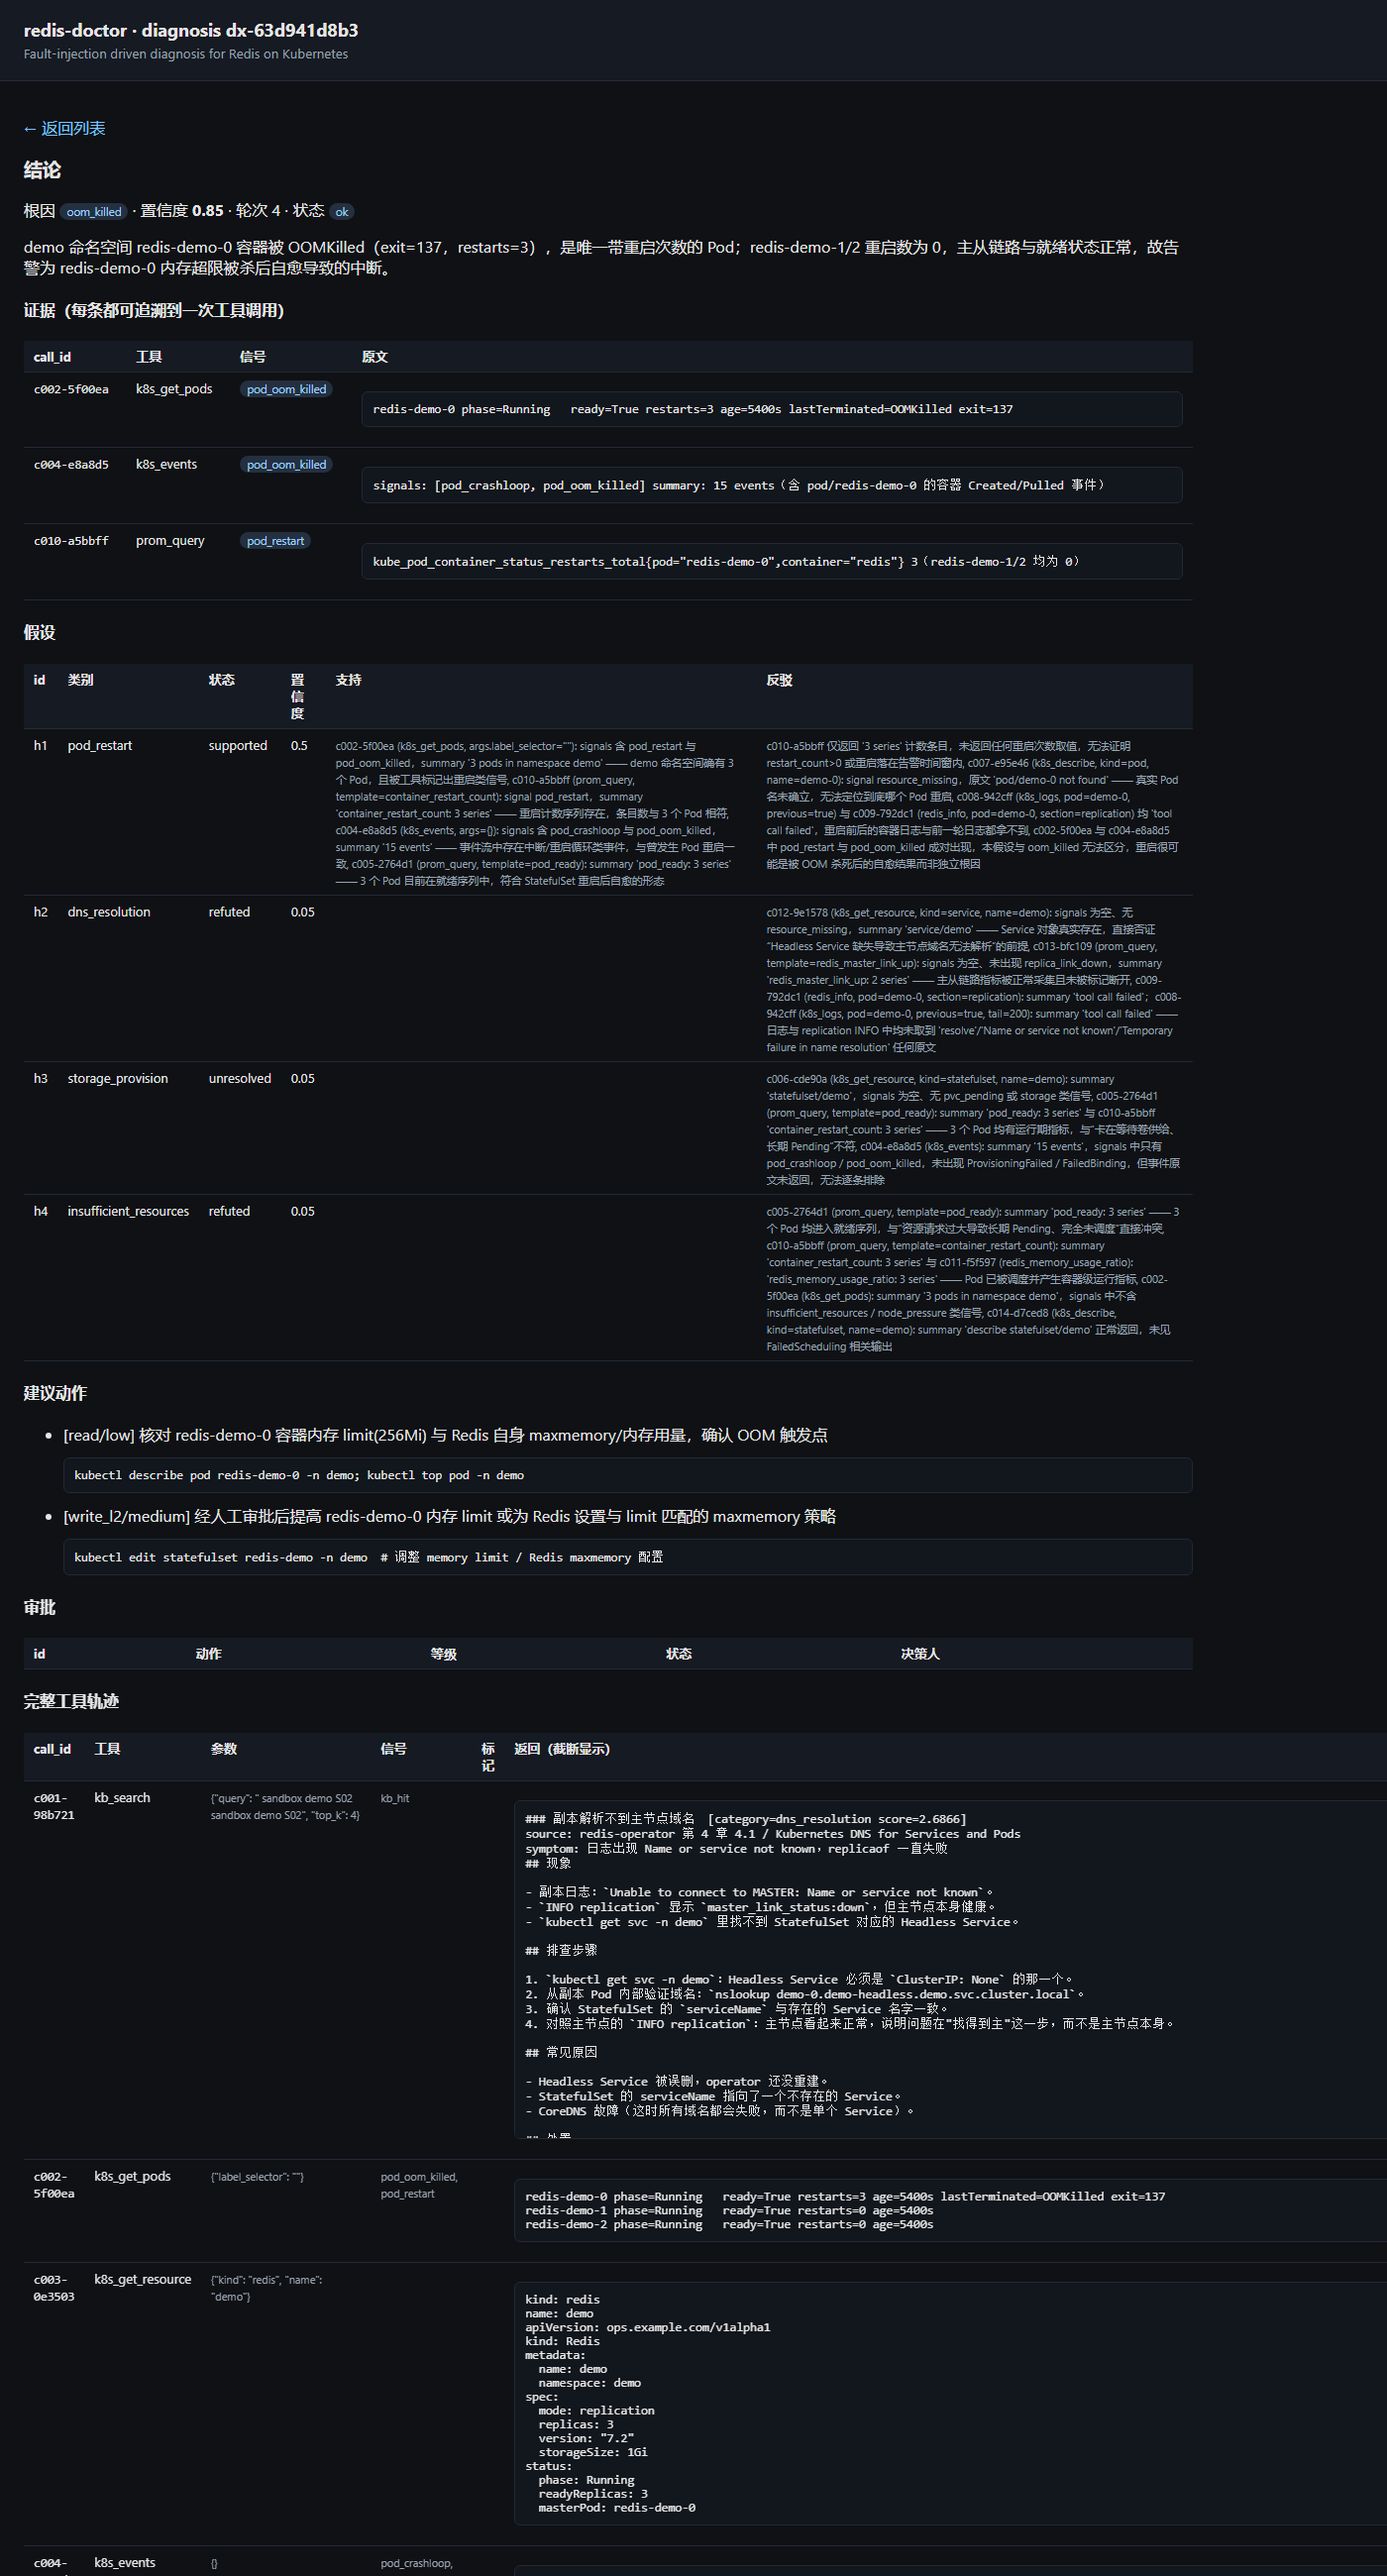
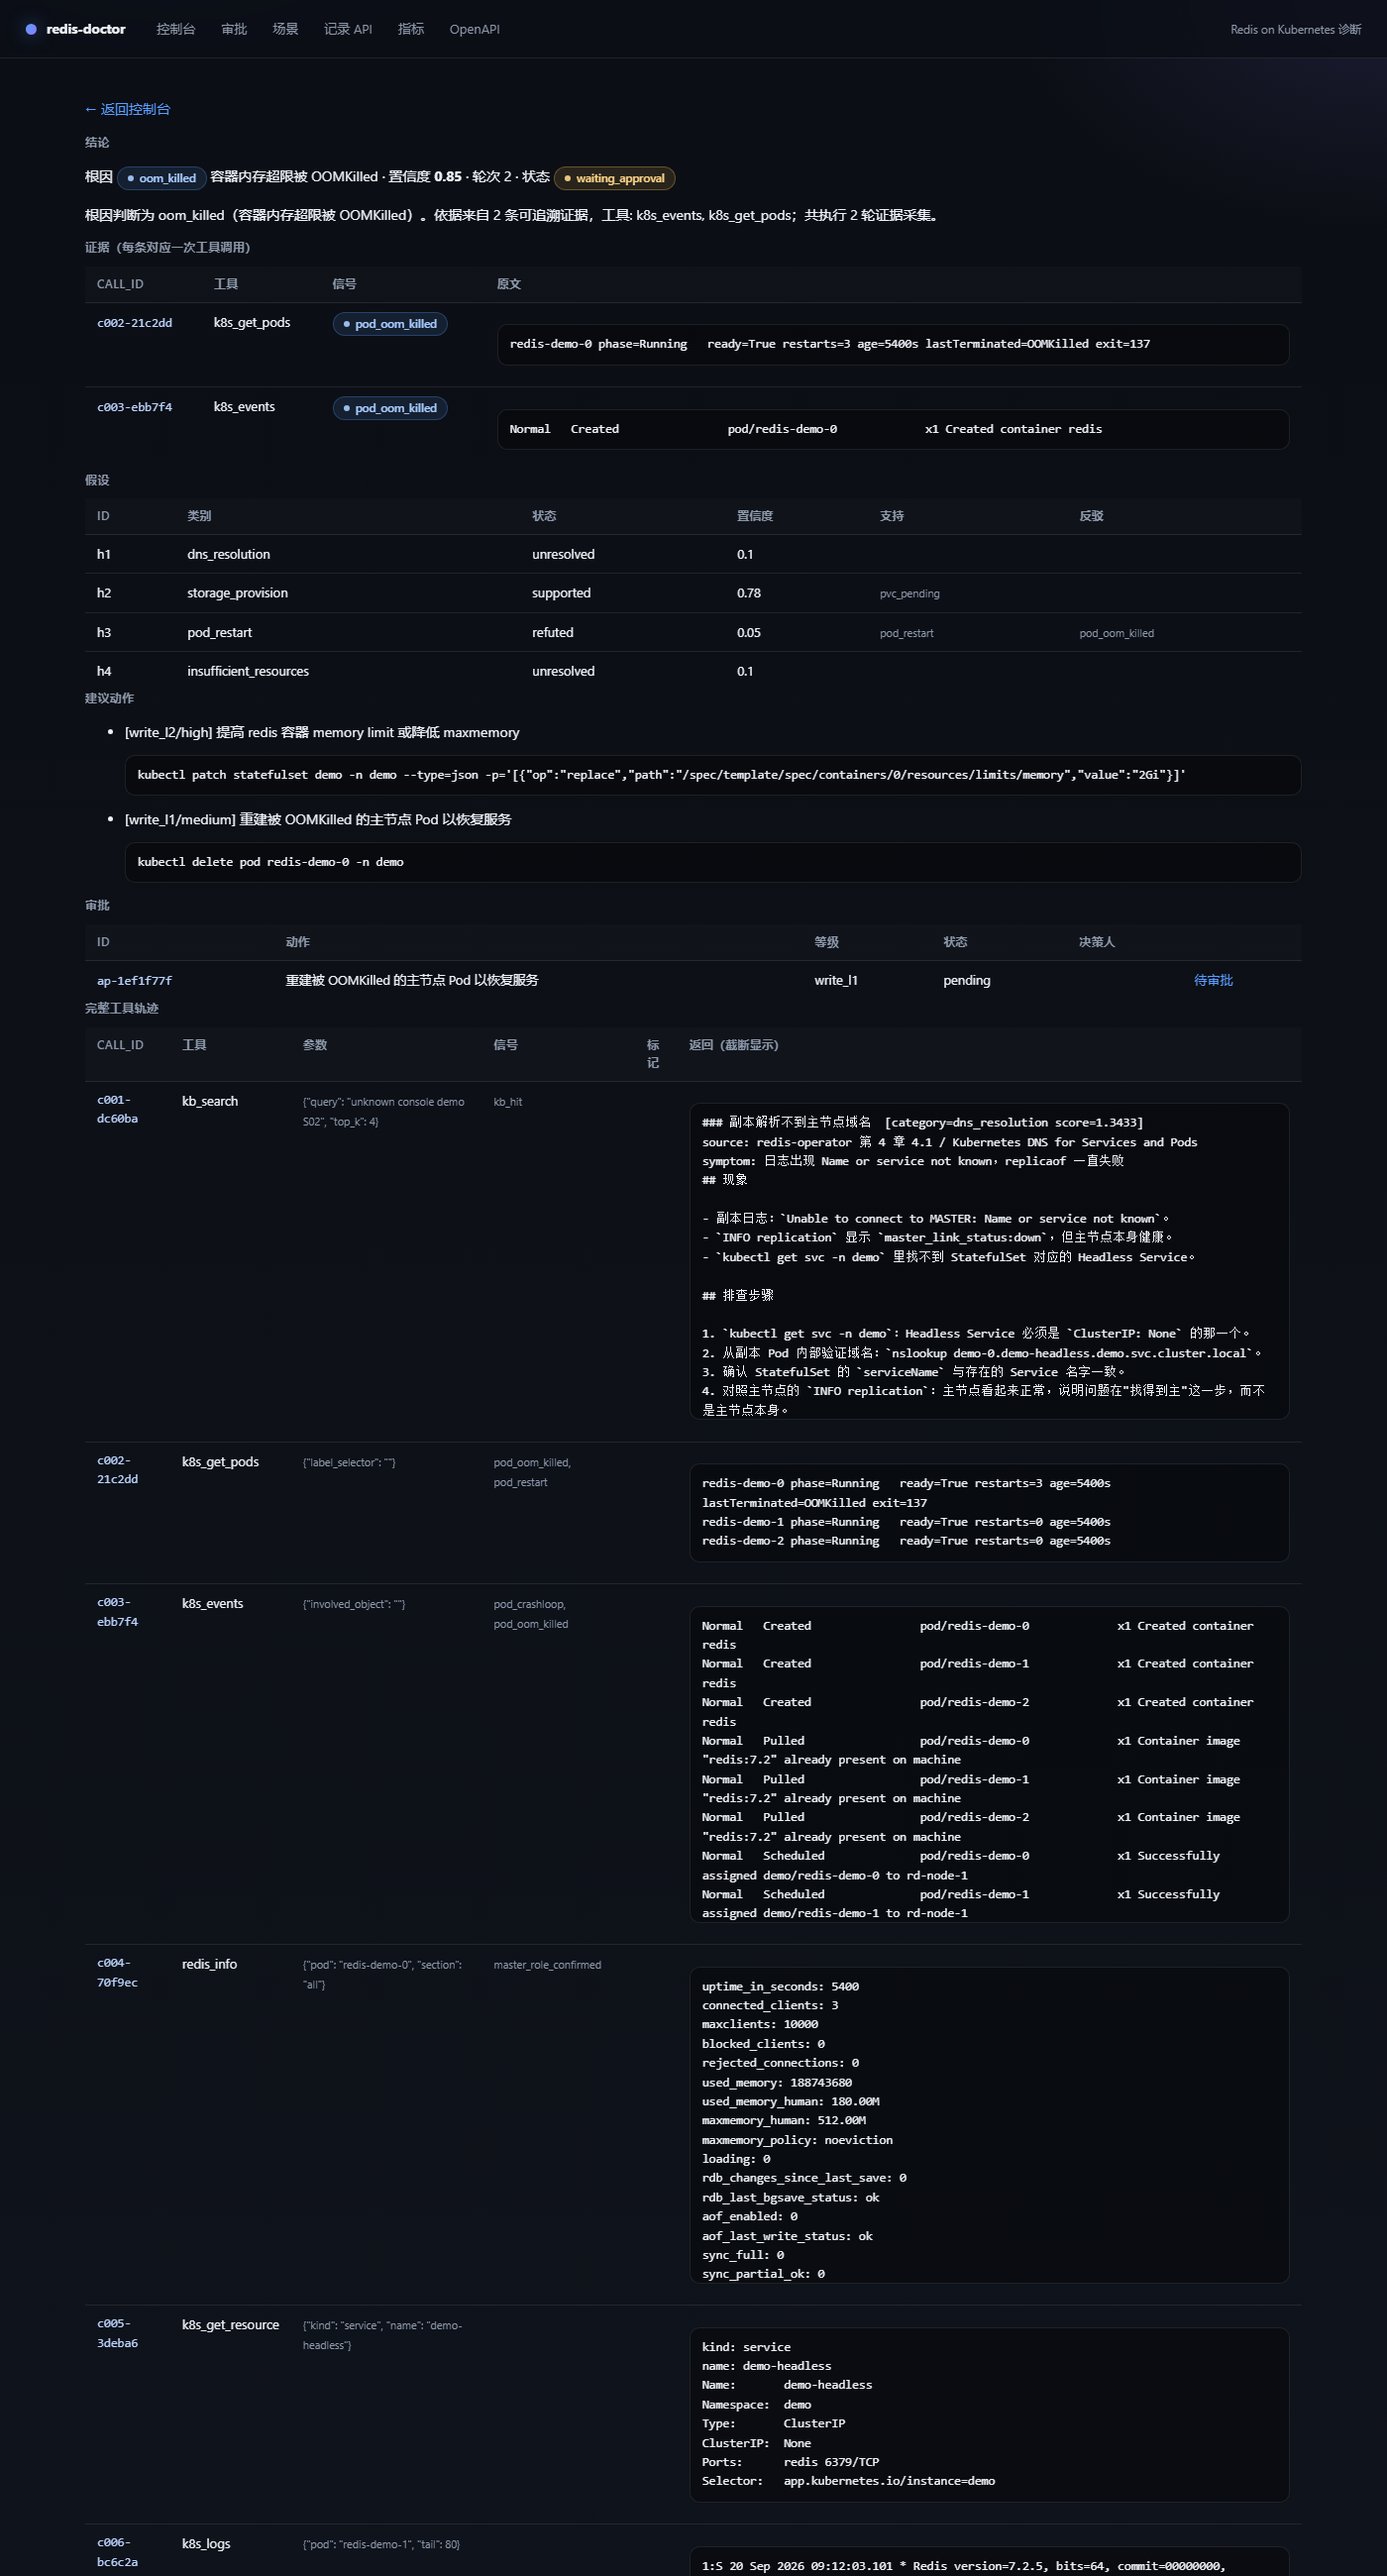
ui: modern styling (glassy panels, gradient accents, sticky nav) and refreshed screenshots

diff --git a/api/ui.py b/api/ui.py
@@ -12,35 +12,88 @@ import json
 from typing import Any
 
 STYLE = """
-:root{--bg:#0f1216;--panel:#161a21;--line:#242b35;--fg:#e7ebf0;--muted:#96a1af;--accent:#63b3ff}
+:root{
+  --bg:#0b0e14;--bg2:#0f131b;--panel:rgba(255,255,255,.028);--line:rgba(255,255,255,.09);
+  --line-strong:rgba(255,255,255,.16);--fg:#eef2f8;--muted:#8d99ab;--accent:#5b9dff;
+  --accent2:#8b7cff;--radius:14px;
+}
 *{box-sizing:border-box}
-body{font-family:ui-sans-serif,"Segoe UI",Helvetica,Arial,sans-serif;margin:0;background:var(--bg);color:var(--fg)}
-header{display:flex;justify-content:space-between;align-items:baseline;padding:14px 22px;background:var(--panel);border-bottom:1px solid var(--line)}
-h1{font-size:16px;margin:0;font-weight:600}
-h2{font-size:14px;margin:20px 0 8px}
-h3{font-size:12px;margin:16px 0 6px;color:var(--muted);font-weight:600;text-transform:uppercase;letter-spacing:.04em}
-a{color:var(--accent);text-decoration:none}a:hover{text-decoration:underline}
-main{padding:18px 22px 40px;max-width:1240px}
+html{-webkit-text-size-adjust:100%}
+body{
+  margin:0;color:var(--fg);font-size:14px;line-height:1.55;min-height:100vh;
+  font-family:"Inter",ui-sans-serif,"Segoe UI Variable","Segoe UI",Helvetica,Arial,sans-serif;
+  background:
+    radial-gradient(900px 500px at 12% -9%,rgba(91,157,255,.16),transparent 60%),
+    radial-gradient(700px 420px at 100% 0,rgba(139,124,255,.13),transparent 55%),
+    linear-gradient(180deg,var(--bg) 0%,var(--bg2) 100%);
+  background-attachment:fixed;
+}
+header{
+  position:sticky;top:0;z-index:20;display:flex;align-items:center;gap:20px;padding:13px 26px;
+  border-bottom:1px solid var(--line);background:rgba(11,14,20,.78);
+  backdrop-filter:blur(14px) saturate(150%);
+}
+.brand{display:flex;align-items:center;gap:10px;font-weight:650;letter-spacing:-.01em}
+.brand .mark{width:11px;height:11px;border-radius:50%;
+  background:linear-gradient(135deg,var(--accent),var(--accent2));box-shadow:0 0 18px rgba(91,157,255,.55)}
+nav{display:flex;gap:2px}
+nav a{padding:6px 12px;border-radius:999px;color:var(--muted);font-size:13px}
+nav a:hover{color:var(--fg);background:rgba(255,255,255,.06);text-decoration:none}
+header .spacer{margin-left:auto}
+a{color:var(--accent);text-decoration:none;transition:color .15s}
+a:hover{color:#8ec1ff}
+main{padding:26px 26px 64px;max-width:1280px;margin:0 auto}
+h2{font-size:15px;margin:26px 0 10px;font-weight:600;letter-spacing:-.01em}
+h3{font-size:11.5px;margin:0 0 10px;color:var(--muted);font-weight:600;
+  text-transform:uppercase;letter-spacing:.08em}
 .muted{color:var(--muted)}
-.cards{display:grid;grid-template-columns:repeat(auto-fit,minmax(140px,1fr));gap:12px}
-.card{background:var(--panel);border:1px solid var(--line);border-radius:8px;padding:12px 14px}
-.card .v{font-size:22px;font-weight:600}
-.card .k{font-size:12px;color:var(--muted);margin-top:2px}
-table{border-collapse:collapse;width:100%;font-size:13px}
-th,td{text-align:left;padding:7px 10px;border-bottom:1px solid var(--line);vertical-align:top}
-th{background:var(--panel);color:var(--muted);font-weight:600}
-code,pre{font-family:ui-monospace,Consolas,"Courier New",monospace;font-size:12.5px}
-pre{background:#12161d;border:1px solid var(--line);border-radius:6px;padding:9px;overflow:auto;max-height:300px;white-space:pre-wrap}
-.pill{display:inline-block;padding:1px 8px;border-radius:10px;font-size:11.5px;background:#233043;color:#a8d3ff}
-.ok{background:#17301f;color:#8fe0a8}.bad{background:#3a1d22;color:#ff9aa8}.warn{background:#37301c;color:#ffd479}
-form.inline{display:flex;gap:8px;align-items:center;flex-wrap:wrap}
-select,input,button{background:#12161d;color:var(--fg);border:1px solid var(--line);border-radius:6px;padding:6px 9px;font-size:13px}
-button{cursor:pointer}
-button.primary{background:#1b4a7a;border-color:#2a6ea8}
-button.danger{background:#4a1f26;border-color:#7a2b36}
+.lead{color:var(--muted);margin:0 0 20px}
+.cards{display:grid;grid-template-columns:repeat(auto-fit,minmax(158px,1fr));gap:14px}
+.card{position:relative;overflow:hidden;border:1px solid var(--line);border-radius:var(--radius);
+  background:linear-gradient(180deg,rgba(255,255,255,.045),rgba(255,255,255,.012));padding:16px 18px;
+  transition:transform .16s ease,border-color .16s ease,box-shadow .16s ease}
+.card:hover{transform:translateY(-2px);border-color:var(--line-strong);box-shadow:0 12px 30px rgba(0,0,0,.35)}
+.card:before{content:"";position:absolute;inset:0 0 auto 0;height:2px;
+  background:linear-gradient(90deg,var(--accent),var(--accent2));opacity:.75}
+.card .v{font-size:26px;font-weight:640;letter-spacing:-.02em;font-variant-numeric:tabular-nums}
+.card .k{font-size:12px;color:var(--muted);margin-top:4px}
+.panel{border:1px solid var(--line);border-radius:var(--radius);background:var(--panel);
+  padding:18px;backdrop-filter:blur(6px)}
+.panel + .panel{margin-top:20px}
+table{border-collapse:separate;border-spacing:0;width:100%;font-size:13px}
+th,td{text-align:left;padding:9px 12px;border-bottom:1px solid var(--line);vertical-align:top}
+tr:last-child td{border-bottom:none}
+tbody tr{transition:background .12s}
+tbody tr:hover{background:rgba(255,255,255,.035)}
+th{font-size:11.5px;color:var(--muted);font-weight:600;text-transform:uppercase;
+  letter-spacing:.06em;background:rgba(255,255,255,.02)}
+code,pre{font-family:"JetBrains Mono",ui-monospace,SFMono-Regular,Consolas,monospace;font-size:12.5px}
+code{color:#bcd4ff;word-break:break-word}
+td code{display:inline-block;max-width:230px}
+pre{background:rgba(0,0,0,.32);border:1px solid var(--line);border-radius:10px;padding:10px 12px;
+  overflow:auto;max-height:320px;white-space:pre-wrap;word-break:break-word}
+.pill{display:inline-flex;align-items:center;gap:6px;padding:2px 10px;border-radius:999px;
+  font-size:11.5px;font-weight:550;white-space:nowrap;background:rgba(91,157,255,.12);
+  color:#a9cdff;border:1px solid rgba(91,157,255,.28)}
+.pill:before{content:"";width:6px;height:6px;border-radius:50%;background:currentColor;opacity:.9}
+.ok{background:rgba(70,214,140,.12);color:#84e3ad;border-color:rgba(70,214,140,.3)}
+.bad{background:rgba(255,99,126,.12);color:#ff9db0;border-color:rgba(255,99,126,.3)}
+.warn{background:rgba(255,196,84,.12);color:#ffd58a;border-color:rgba(255,196,84,.3)}
+form.inline{display:flex;gap:10px;align-items:center;flex-wrap:wrap}
+select,input,button{font:inherit;color:var(--fg);background:rgba(255,255,255,.04);
+  border:1px solid var(--line);border-radius:10px;padding:8px 12px;
+  transition:border-color .15s,background .15s}
+select:hover,input:hover{border-color:var(--line-strong)}
+select:focus,input:focus,button:focus{outline:none;border-color:var(--accent);
+  box-shadow:0 0 0 3px rgba(91,157,255,.2)}
+button{cursor:pointer;font-weight:550}
+button.primary{background:linear-gradient(135deg,var(--accent),var(--accent2));border:none;color:#08111f}
+button.primary:hover{filter:brightness(1.06)}
+button.danger{background:rgba(255,99,126,.14);border-color:rgba(255,99,126,.32);color:#ffb3c0}
+button.danger:hover{background:rgba(255,99,126,.22)}
 small{color:var(--muted)}
-.grid2{display:grid;grid-template-columns:1.5fr 1fr;gap:20px}
-@media(max-width:900px){.grid2{grid-template-columns:1fr}}
+.grid2{display:grid;grid-template-columns:1.55fr 1fr;gap:22px;align-items:start}
+@media(max-width:960px){.grid2{grid-template-columns:1fr}}
 """
 
 
@@ -53,10 +106,13 @@ def layout(title: str, body: str) -> str:
         "<!doctype html><html lang='zh-CN'><head><meta charset='utf-8'>"
         "<meta name='viewport' content='width=device-width,initial-scale=1'>"
         f"<title>{_esc(title)} · redis-doctor</title><style>{STYLE}</style></head><body>"
-        "<header><h1><a href='/ui' style='color:inherit'>redis-doctor</a></h1>"
-        "<small>Redis on Kubernetes 诊断控制台</small></header><main>"
-        + body
-        + "</main></body></html>"
+        "<header><span class='brand'><span class='mark'></span>"
+        "<a href='/ui' style='color:inherit'>redis-doctor</a></span>"
+        "<nav><a href='/ui'>控制台</a><a href='/ui/approvals'>审批</a>"
+        "<a href='/scenarios'>场景</a><a href='/diagnoses'>记录 API</a>"
+        "<a href='/metrics'>指标</a><a href='/docs'>OpenAPI</a></nav>"
+        "<span class='spacer'></span><small>Redis on Kubernetes 诊断</small>"
+        "</header><main>" + body + "</main></body></html>"
     )
 
 
@@ -109,20 +165,16 @@ def dashboard_page(
     approval_rows = "".join(
         "<tr>"
         f"<td><a href='/ui/diagnoses/{_esc(a['diagnosis_id'])}'>{_esc(a['diagnosis_id'])}</a></td>"
-        f"<td>{_esc(a['action'].get('action'))}</td>"
         f"<td>{_esc(a['action'].get('tier'))} / {_esc(a['action'].get('risk'))}</td>"
         f"<td><code>{_esc(a['action'].get('command'))}</code></td>"
         f"<td><form class='inline' method='post' action='/ui/approvals/{_esc(a['id'])}'>"
-        "<input type='hidden' name='decision' value='approve'>"
-        "<button class='primary'>批准</button></form></td>"
-        f"<td><form class='inline' method='post' action='/ui/approvals/{_esc(a['id'])}'>"
-        "<input type='hidden' name='decision' value='deny'>"
-        "<button class='danger'>拒绝</button></form></td>"
+        "<button class='primary' name='decision' value='approve'>批准</button>"
+        "<button class='danger' name='decision' value='deny'>拒绝</button></form></td>"
         "</tr>"
         for a in pending
     )
     body = [
-        "<p class='muted'>"
+        "<p class='lead'>"
         + _esc(
             banner or "选择场景注入故障并运行诊断；每次工具调用、证据引用与审批动作都会写入轨迹。"
         )
@@ -133,7 +185,7 @@ def dashboard_page(
             for k, v in cards
         )
         + "</div>",
-        "<div class='grid2'><div>",
+        "<div class='grid2'><div><div class='panel'>",
         "<h3>运行诊断</h3>",
         "<form class='inline' method='post' action='/ui/diagnose'>",
         f"<select name='scenario'>{options}</select>",
@@ -145,10 +197,10 @@ def dashboard_page(
         "<table><tr><th>ID</th><th>告警</th><th>根因</th><th>置信度</th><th>状态</th>"
         "<th>组</th><th>告警摘要</th></tr>",
         rows or "<tr><td colspan='7' class='muted'>还没有诊断记录</td></tr>",
-        "</table></div><div>",
+        "</table></div></div><div><div class='panel'>",
         "<h3>待审批动作</h3>",
-        "<table><tr><th>诊断</th><th>动作</th><th>等级</th><th>命令</th><th></th><th></th></tr>",
-        approval_rows or "<tr><td colspan='6' class='muted'>无待审批动作</td></tr>",
+        "<table><tr><th>诊断</th><th>等级</th><th>将执行的命令</th><th>决策</th></tr>",
+        approval_rows or "<tr><td colspan='4' class='muted'>无待审批动作</td></tr>",
         "</table>",
         "<h3>根因分布</h3>",
         "<table>"
@@ -166,7 +218,7 @@ def dashboard_page(
         "<tr><td><a href='/approvals'>/approvals</a></td><td>审批队列（JSON）</td></tr>"
         "<tr><td><a href='/metrics'>/metrics</a></td><td>Prometheus 指标</td></tr>"
         "<tr><td><a href='/docs'>/docs</a></td><td>OpenAPI</td></tr></table>",
-        "</div></div>",
+        "</div></div></div>",
     ]
     return layout("控制台", "".join(body))
 
